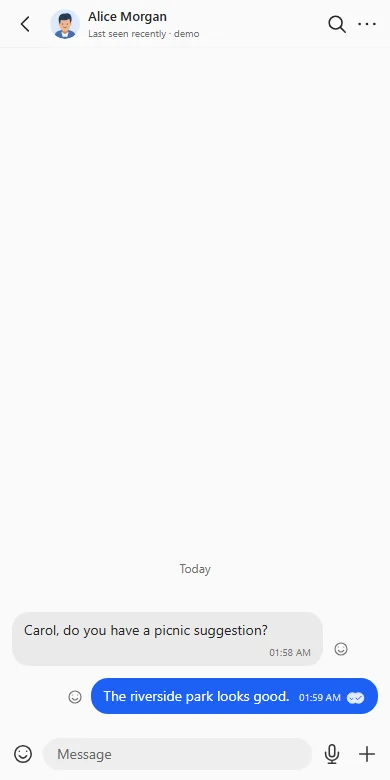
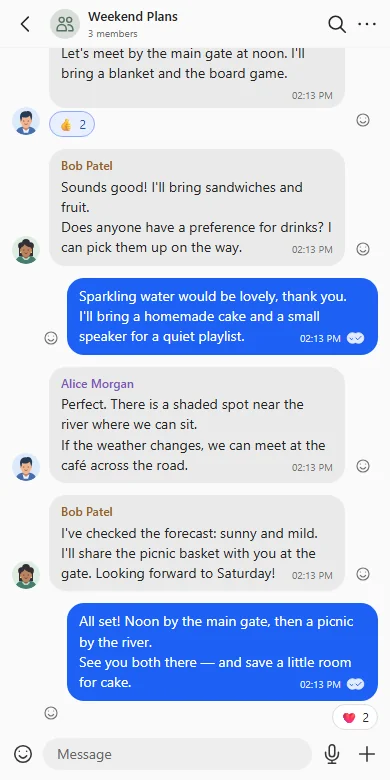
Show the authorized live group conversation and reaction counts

diff --git a/README.md b/README.md
@@ -21,9 +21,9 @@ An original, full-stack messaging application built for the **Scaler SDE Fullsta
 <details>
 <summary><strong>Group messaging and reactions</strong></summary>
 
-![Desktop group conversation with the real six-choice reaction picker](docs/assets/screenshots/desktop-group.webp)
+![Desktop group conversation with live emoji reaction counts](docs/assets/screenshots/desktop-group.webp)
 
-*Cropped detail of the existing Weekend Plans conversation; opening the picker does not add a reaction or change message data.*
+*A fictional picnic exchange in Weekend Plans, sent through three independent demo sessions with live reaction counts.*
 
 </details>
 
